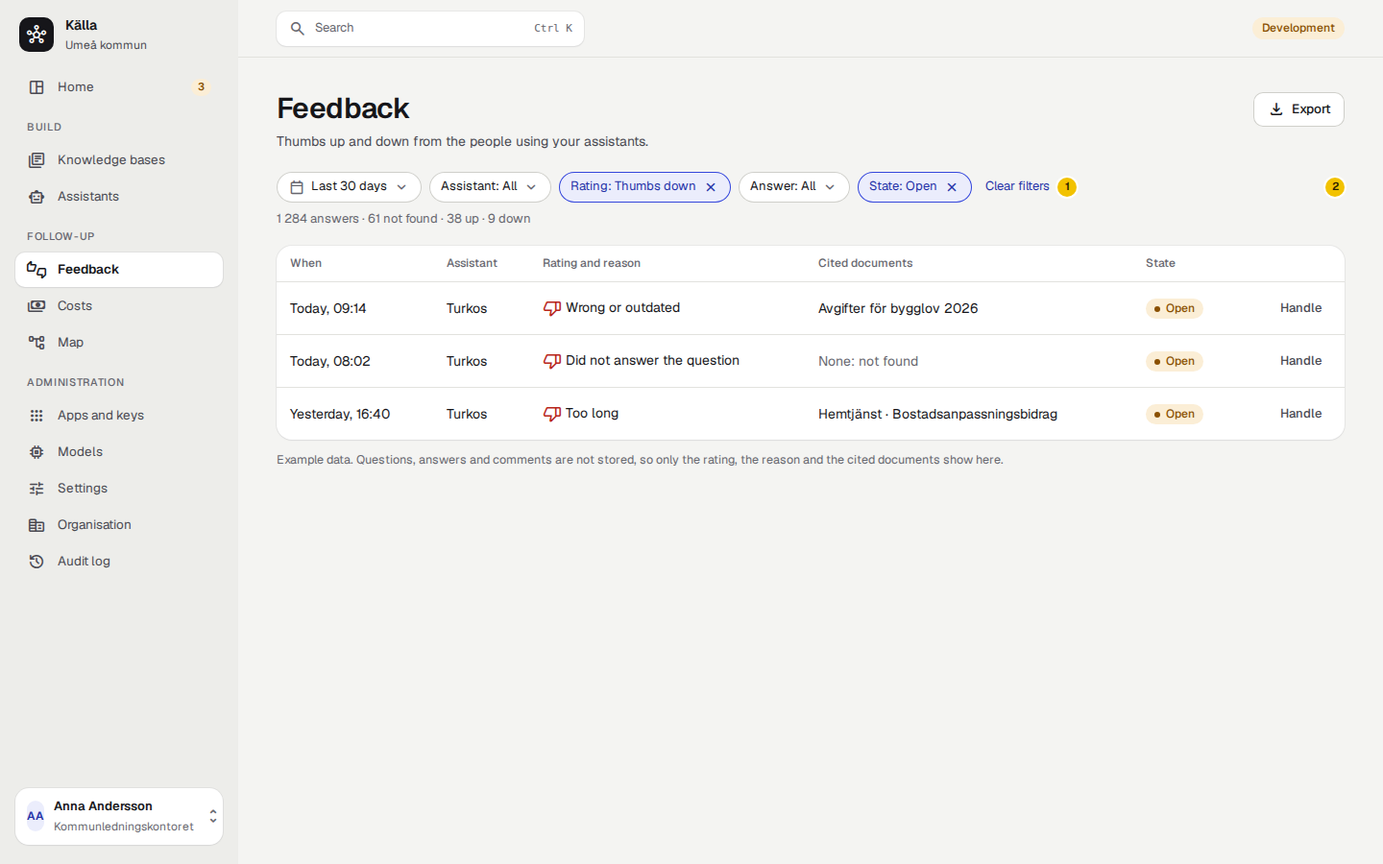
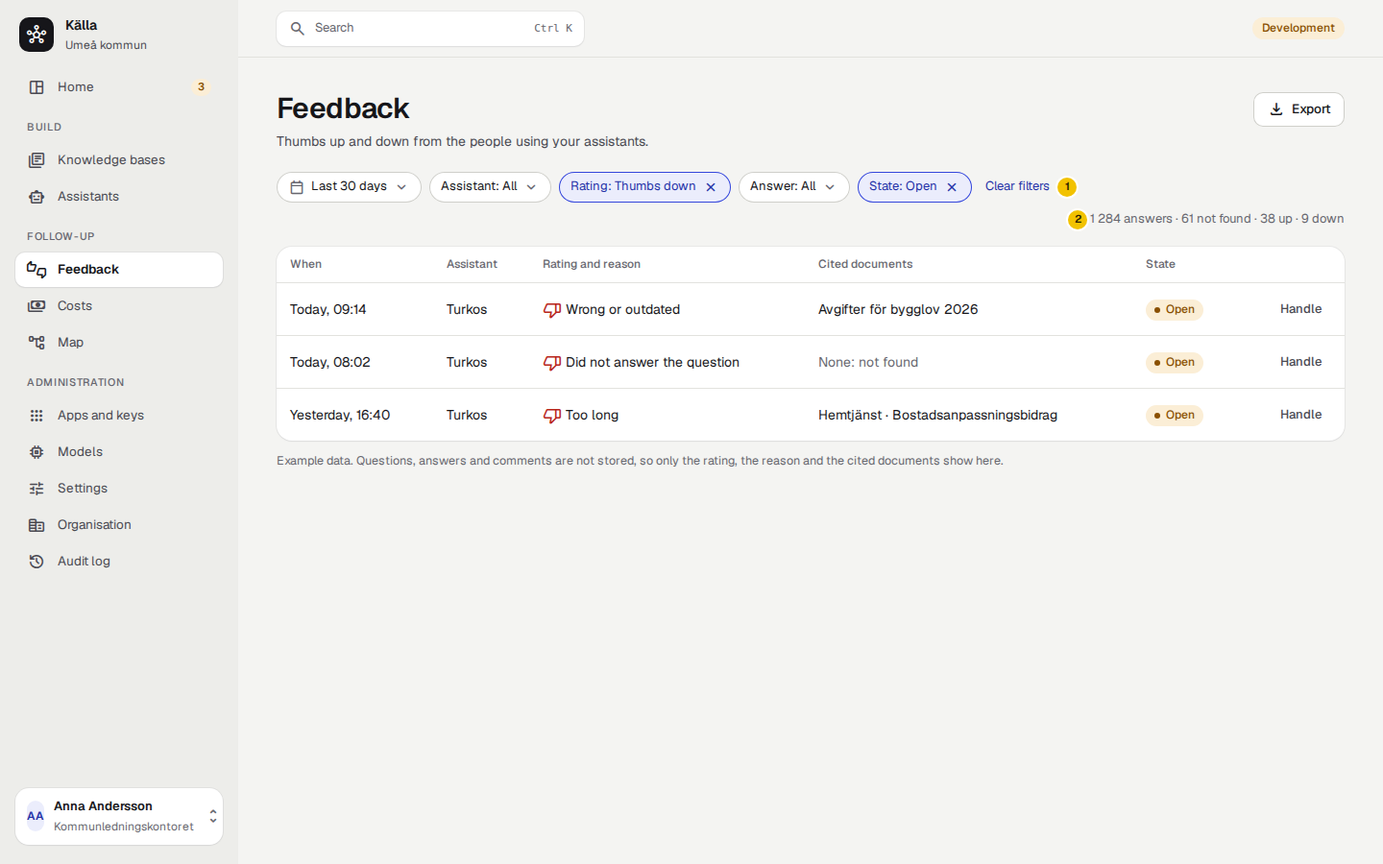
Admin UI UX pass: the phone layout and WCAG 2.2 AA for every proposed component, with phone mockups

diff --git a/plans/proposals/admin-ui-ux-pass/mockups/mock.css b/plans/proposals/admin-ui-ux-pass/mockups/mock.css
@@ -104,3 +104,60 @@ tr:last-child td { border-bottom: 0; } td.num, th.num { text-align: right; font-
 .pin { position: absolute; width: 22px; height: 22px; border-radius: 99px; background: #F2C200; color: #2A2100; font-weight: 700; font-size: 12px; display: grid; place-items: center; z-index: 9; box-shadow: 0 0 0 3px #fff; }
 .pin-i { display: inline-grid; place-items: center; width: 20px; height: 20px; border-radius: 99px; background: #F2C200; color: #2A2100; font-weight: 700; font-size: 11.5px; box-shadow: 0 0 0 2px #fff; vertical-align: middle; flex: none; font-style: normal; }
 .bar.static { position: static; }
+
+/* Focus: every control shows the design system's focus ring (2 px --focus, 2 px offset). */
+:focus-visible { outline: 2px solid #3446DB; outline-offset: 2px; }
+.mtop, .bottom, .sheet, .scrim, .only-phone { display: none; }
+
+/* Phone (≤ 760 px): one column, the bottom menu, tabs in one scrolling row, rows as cards, sheets instead of menus. */
+@media (max-width: 760px) {
+  body { font-size: 15px; }
+  .app { display: block; min-height: 0; }
+  .side, .top, .only-desk { display: none; }
+  .only-phone { display: revert; }
+  .mtop { display: flex; align-items: center; gap: 10px; height: 56px; padding: 0 16px; border-bottom: 1px solid var(--border); position: sticky; top: 0; background: var(--canvas); z-index: 4; }
+  .mtop b { font-size: 15px; } .mtop .btn { margin-left: auto; }
+  .bottom { display: grid; grid-template-columns: repeat(5, 1fr); position: fixed; left: 0; right: 0; bottom: 0; height: 64px; background: var(--surface); box-shadow: 0 -1px 0 var(--border); z-index: 6; }
+  .bottom div { display: flex; flex-direction: column; align-items: center; justify-content: center; gap: 2px; font-size: 11px; color: var(--fg-2); min-height: 48px; }
+  .bottom div.on { color: var(--accent-ink); font-weight: 600; }
+  .page { padding: 18px 16px 150px; }
+  .head { flex-wrap: wrap; gap: 12px; margin-bottom: 16px; }
+  .head > div:first-child { width: 100%; }
+  .head h1 { font-size: 24px; }
+  .head .actions { margin-left: 0; width: 100%; }
+  .head .actions .btn.primary { flex: 1; justify-content: center; }
+  .head .actions .btn { height: 44px; } .head .actions .btn.icon { width: 44px; }
+  .menu { display: none; }
+  .tabs { overflow-x: auto; flex-wrap: nowrap; scrollbar-width: none; margin: 0 -16px 18px; padding: 0 16px; -webkit-mask-image: linear-gradient(90deg, #000 85%, transparent); }
+  .tab { white-space: nowrap; padding: 12px 10px; }
+  .split, .grid2, .grid3 { grid-template-columns: minmax(0, 1fr) !important; }
+  .head .actions { flex-wrap: wrap; } .health, .row-wrap { flex-wrap: wrap; gap: 10px 16px !important; }
+  .health > span { width: 100%; }
+  .w-num { width: 120px; } .w-md { width: 100%; }
+  .scale div { font-size: 12.5px; padding: 10px 2px; }
+  .test { display: none; }
+  table.rt, table.rt tbody, table.rt tr, table.rt td { display: block; width: 100%; }
+  table.rt tr:has(th) { display: none; }
+  table.rt tr { padding: 12px 16px; border-bottom: 1px solid var(--border); }
+  table.rt tr:last-child { border-bottom: 0; }
+  table.rt td { padding: 3px 0; border: 0; text-align: left !important; display: flex; gap: 12px; }
+  table.rt td[data-label]:not([data-label=""])::before { content: attr(data-label); color: var(--fg-3); font-size: 12.5px; min-width: 110px; }
+  table.rt td.first { font-weight: 600; }
+  table.rt td .btn { margin-top: 6px; height: 40px; }
+  .filters { flex-wrap: wrap; } .filters .chip { height: 40px; }
+  .filters .count { width: 100%; margin-left: 0 !important; }
+  .bar { position: fixed; left: 12px; right: 12px; bottom: 76px; z-index: 5; padding: 8px 8px 8px 14px; flex-wrap: wrap; }
+  .bar .state { font-size: 13px; flex: 1 1 100%; }
+  .bar .r { margin-left: 0; width: 100%; } .bar .r .btn { flex: 1; justify-content: center; height: 44px; }
+  .settings-layout { display: block !important; } .settings-nav { display: none; }
+  .card { padding: 16px; }
+}
+@media (max-width: 760px) { .btn.only-phone { display: inline-flex; } div.only-phone { display: block; } }
+@media (max-width: 760px) { .kb { flex-wrap: wrap; } .kb .chips { margin-left: 0; width: 100%; } }
+@media (max-width: 760px) {
+  .card.test { display: none; }
+  .grid3.tiles { grid-template-columns: 1fr 1fr !important; gap: 10px; }
+  table.rt td { flex-wrap: wrap; }
+}
+@media (max-width: 760px) { .bar .r { flex-wrap: wrap; } }
+@media (max-width: 360px) { .bar .r .btn.only-phone { flex-basis: 100%; } }

diff --git a/plans/proposals/admin-ui-ux-pass/mockups/knowledge-base.html b/plans/proposals/admin-ui-ux-pass/mockups/knowledge-base.html
@@ -2,6 +2,7 @@
 <html lang="en">
 <head>
 <meta charset="utf-8">
+<meta name="viewport" content="width=device-width, initial-scale=1">
 <title>Knowledge base page (proposed)</title>
 <link rel="stylesheet" href="https://fonts.googleapis.com/css2?family=Geist:wght@400;500;600&family=Material+Symbols+Rounded:opsz,wght,FILL,GRAD@20,400,0,0&display=block">
 <link rel="stylesheet" href="mock.css">
@@ -21,17 +22,17 @@
       <span class="btn secondary icon"><span class="ms">more_horiz</span></span><i class="pin-i">1</i>
     </div>
   </div>
-  <div class="tabs">
-    <div class="tab on">Overview</div>
-    <div class="tab">Content <span class="n">1 source · 13 files</span></div>
-    <div class="tab">Documents <span class="n">13</span></div>
-    <div class="tab">Topics</div>
-    <div class="tab">Quality <span class="dot"></span></div>
-    <div class="tab">Sharing</div>
-    <div class="tab"><i class="pin-i">2</i></div>
+  <div class="tabs" role="tablist" tabindex="0" aria-label="Sections">
+    <div role="tab" aria-selected="true" class="tab on">Overview</div>
+    <div role="tab" aria-selected="false" class="tab">Content <span class="n">1 source · 13 files</span></div>
+    <div role="tab" aria-selected="false" class="tab">Documents <span class="n">13</span></div>
+    <div role="tab" aria-selected="false" class="tab">Topics</div>
+    <div role="tab" aria-selected="false" class="tab">Quality <span class="dot"></span></div>
+    <div role="tab" aria-selected="false" class="tab">Sharing</div>
+    <div role="tab" aria-selected="false" class="tab"><i class="pin-i">2</i></div>
   </div>
 
-  <div class="grid3" style="grid-template-columns:repeat(4,1fr);margin-bottom:16px">
+  <div class="grid3 tiles" style="grid-template-columns:repeat(4,1fr);margin-bottom:16px">
     <div class="card"><div class="muted small">Documents</div><div style="font-size:26px;font-weight:600;margin-top:4px">13</div><div class="muted small">all searchable</div></div>
     <div class="card"><div class="muted small">Last fetch</div><div style="font-size:17px;font-weight:600;margin:9px 0 3px">Today, 01:18</div><span class="badge ok">Done</span></div>
     <div class="card" style="box-shadow:inset 0 0 0 1px var(--warn), var(--shadow-1)"><div class="muted small">Quality (recall@10)</div><div style="font-size:17px;font-weight:600;margin:9px 0 3px">Not measured</div><a class="small">Create test questions →</a></div>

diff --git a/plans/proposals/admin-ui-ux-pass/mockups/settings.html b/plans/proposals/admin-ui-ux-pass/mockups/settings.html
@@ -2,6 +2,7 @@
 <html lang="en">
 <head>
 <meta charset="utf-8">
+<meta name="viewport" content="width=device-width, initial-scale=1">
 <title>Settings form (proposed)</title>
 <link rel="stylesheet" href="https://fonts.googleapis.com/css2?family=Geist:wght@400;500;600&family=Material+Symbols+Rounded:opsz,wght,FILL,GRAD@20,400,0,0&display=block">
 <link rel="stylesheet" href="mock.css">
@@ -11,8 +12,8 @@
 <main class="main">
 <div class="page">
   <div class="head"><div><h1>Settings</h1><div class="sub">How the platform answers, fetches and keeps content.</div></div></div>
-  <div style="display:grid;grid-template-columns:220px minmax(0,1fr);gap:40px">
-    <div class="small">
+  <div class="settings-layout" style="display:grid;grid-template-columns:220px minmax(0,1fr);gap:40px">
+    <div class="small settings-nav">
       <div class="grp" style="padding-left:12px">Answers</div>
       <div class="nav on">Chat</div><div class="nav">Prompt texts</div><div class="nav">Search</div><div class="nav">Assistant templates</div>
       <div class="grp" style="padding-left:12px">Content</div>
@@ -23,6 +24,7 @@
       <div class="nav">Network</div><div class="nav">Role groups</div>
     </div>
     <div class="w-form" style="max-width:680px">
+      <div class="only-phone" style="margin-bottom:16px"><div class="input"><span class="muted">Section</span><b style="font-weight:500">Answers › Chat</b><span class="ms caret">expand_more</span></div></div>
       <h2 style="font-size:20px;margin:0 0 4px;font-weight:600">Chat</h2>
       <div class="fg2" style="margin-bottom:22px">Limits and models every assistant shares.</div>
 
@@ -36,7 +38,7 @@
       <div class="card" style="margin-top:16px">
         <div class="section-title" style="margin-top:0">Limits <i class="pin-i">2</i></div>
         <div class="section-lead">Empty: the value shown in grey applies.</div>
-        <div style="display:flex;gap:24px">
+        <div class="row-wrap" style="display:flex;gap:24px">
           <div class="field"><label>Longest answer</label><div style="display:flex;align-items:center;gap:8px"><div class="input w-num ph">Model’s limit</div><span class="muted">tokens</span></div></div>
           <div class="field"><label>Messages per person</label><div style="display:flex;align-items:center;gap:8px"><div class="input w-num ph">20</div><span class="muted">per minute</span></div></div>
         </div>

diff --git a/plans/proposals/admin-ui-ux-pass/mockups/shell.js b/plans/proposals/admin-ui-ux-pass/mockups/shell.js
@@ -28,7 +28,19 @@
       <div class="search"><span class="ms">search</span>Search<kbd>Ctrl K</kbd></div>
       <span class="env">Development</span>
     </div>`
+  // Phone: a top bar with the search, and the bottom menu of admin design §5.2 (Home, Knowledge bases, Assistants,
+  // Feedback, Menu); each target is at least 48 px high.
+  const tab = (id, icon, label) => `<div class="${id === active ? 'on' : ''}"><span class="ms">${icon}</span>${label}</div>`
+  const mtop = `<div class="mtop"><span class="ms">hub</span><b>Källa</b><span class="btn ghost icon" aria-label="Search"><span class="ms">search</span></span></div>`
+  const bottom = `<nav class="bottom" aria-label="Main">${tab('home', 'space_dashboard', 'Home')}${tab('collections', 'library_books', 'Knowledge')}${tab('assistants', 'smart_toy', 'Assistants')}${tab('feedback', 'thumbs_up_down', 'Feedback')}${tab('menu', 'menu', 'Menu')}</nav>`
+  // Tables become cards on a phone: each cell gets its column's name as a label.
+  for (const t of document.querySelectorAll('table')) {
+    t.classList.add('rt')
+    const heads = [...t.querySelectorAll('tr:first-child th')].map((th) => th.textContent.trim())
+    for (const tr of t.querySelectorAll('tr')) [...tr.children].forEach((td, i) => { if (td.tagName === 'TD') { td.dataset.label = heads[i] ?? ''; if (i === 0) td.classList.add('first') } })
+  }
   const app = document.querySelector('.app')
   app.insertAdjacentHTML('afterbegin', side)
-  document.querySelector('.main').insertAdjacentHTML('afterbegin', top)
+  document.querySelector('.main').insertAdjacentHTML('afterbegin', mtop + top)
+  document.body.insertAdjacentHTML('beforeend', bottom)
 })()

diff --git a/plans/proposals/admin-ui-ux-pass/mockups/feedback.html b/plans/proposals/admin-ui-ux-pass/mockups/feedback.html
@@ -2,6 +2,7 @@
 <html lang="en">
 <head>
 <meta charset="utf-8">
+<meta name="viewport" content="width=device-width, initial-scale=1">
 <title>Feedback (proposed)</title>
 <link rel="stylesheet" href="https://fonts.googleapis.com/css2?family=Geist:wght@400;500;600&family=Material+Symbols+Rounded:opsz,wght,FILL,GRAD@20,400,0,0&display=block">
 <link rel="stylesheet" href="mock.css">
@@ -15,7 +16,7 @@
     <div class="actions"><span class="btn secondary"><span class="ms">download</span>Export</span></div>
   </div>
 
-  <div style="display:flex;gap:8px;align-items:center;flex-wrap:wrap;margin-bottom:18px">
+  <div class="filters" style="display:flex;gap:8px;align-items:center;flex-wrap:wrap;margin-bottom:18px">
     <span class="chip"><span class="ms">calendar_today</span>Last 30 days<span class="ms">expand_more</span></span>
     <span class="chip">Assistant: All<span class="ms">expand_more</span></span>
     <span class="chip set">Rating: Thumbs down<span class="ms" style="color:var(--accent-ink)">close</span></span>
@@ -23,7 +24,7 @@
     <span class="chip set">State: Open<span class="ms" style="color:var(--accent-ink)">close</span></span>
     <a style="margin-left:6px;font-size:13px">Clear filters</a>
     <i class="pin-i">1</i>
-    <span style="margin-left:auto"></span><i class="pin-i">2</i><span class="muted" style="font-size:13px">1 284 answers · 61 not found · 38 up · 9 down</span>
+    <span class="count muted" style="margin-left:auto;font-size:13px"><i class="pin-i">2</i> 1 284 answers · 61 not found · 38 up · 9 down</span>
   </div>
 
   <div class="tcard">

diff --git a/plans/proposals/admin-ui-ux-pass/mockups/home.html b/plans/proposals/admin-ui-ux-pass/mockups/home.html
@@ -2,6 +2,7 @@
 <html lang="en">
 <head>
 <meta charset="utf-8">
+<meta name="viewport" content="width=device-width, initial-scale=1">
 <title>Home (proposed)</title>
 <link rel="stylesheet" href="https://fonts.googleapis.com/css2?family=Geist:wght@400;500;600&family=Material+Symbols+Rounded:opsz,wght,FILL,GRAD@20,400,0,0&display=block">
 <link rel="stylesheet" href="mock.css">
@@ -35,7 +36,7 @@
     </table>
   </div>
 
-  <div class="card" style="display:flex;align-items:center;gap:28px;padding:14px 20px">
+  <div class="card health" style="display:flex;align-items:center;gap:28px;padding:14px 20px">
     <b style="font-weight:600">Health</b><i class="pin-i">3</i>
     <span><span class="badge ok">Runs</span> 12 in 24 h, none failed</span>
     <span><span class="badge ok">Queue</span> 0 waiting</span>

diff --git a/plans/proposals/admin-ui-ux-pass.md b/plans/proposals/admin-ui-ux-pass.md
@@ -22,7 +22,7 @@ proposal changes them. What makes pages feel busy is **how much asks for attenti
 - the assistant's test is a separate tab from the draft it tests, so you switch tabs after every edit;
 - each form saves with a differently named button at its bottom, and nothing says that there are unsaved changes.
 
-The proposal is nine rules (below) and six decisions (UX1–UX6), each with a recommendation. Together they take most
+The proposal is eleven rules (below) and six decisions (UX1–UX6), each with a recommendation. Together they take most
 of the buttons and form fields off the first screen of the busiest pages, without removing a single function.
 
 ## How the review was done
@@ -30,8 +30,9 @@ of the buttons and form fields off the first screen of the busiest pages, withou
 46 screens at 1,440 px as a platform administrator: every page in the menu, every tab of a knowledge base and an
 assistant, every Settings section, a source page, and the create and edit drawers. The stack was the FakeGateway stack
 with the demo seed (one knowledge base with 13 files, one published assistant, four departments); the parser,
-renderer and Open WebUI were off. Phone width and the dark and Lumen themes were reviewed in M-19 and are not repeated
-here; every proposal below must keep the phone layout (rows as cards, the bottom menu) and all three themes.
+renderer and Open WebUI were off. The same pages again at 390 px on a phone viewport (touch, `isMobile`), and the
+mockups at 1,440, 390 and 320 px with axe-core (WCAG 2.2 A and AA rules). The dark and Lumen themes were reviewed in
+M-19; every proposal uses only tokens, so all three themes follow.
 
 The mockups under [`admin-ui-ux-pass/mockups/`](admin-ui-ux-pass/mockups/) are plain HTML that use the admin UI's own
 tokens (`tokens.css`, light theme), so they show layout and grouping, not a new look. Yellow numbered dots in them
@@ -46,7 +47,7 @@ point to the numbered items in the text. Their data is invented where the seed h
   within the glossary.
 - **The drawers** for create and edit, the command palette (Ctrl K), the empty states, `?tab=` in the address.
 
-## Nine rules
+## Eleven rules
 
 These are the rules each change below follows; once adopted they go into admin design §5 as the layout rules every
 new page is reviewed against.
@@ -71,6 +72,11 @@ new page is reviewed against.
    Green is for a state someone waits for (*Published*, *Done*); amber and red for something to do.
 9. **One rhythm.** Lists use the full content width; forms one column of at most 680 px, with help or a preview in a
    second column when there is room; detail pages start with a row of up to four summary tiles.
+10. **As good on a phone.** Below 760 px every page is one column with no sideways scrolling down to 320 px; the
+    primary action spans the width beside the ⋯; tabs stay one row that scrolls; rows become cards; menus become
+    bottom sheets; touch targets are at least 44 × 44 px (*Phone* below).
+11. **Accessible by construction.** WCAG 2.2 level AA (EN 301 549) for every component and page, checked by the
+    accessibility spec in the three themes and at phone width (*Accessibility* below).
 
 ## Before and after
 
@@ -139,6 +145,81 @@ new page is reviewed against.
    placeholder (M-19 already does this in places).
 3. A list of hosts is a chip input, not a text area with one value per line.
 4. The save bar; ✱ *Cancel* becomes *Discard*, which says what it does.
+
+## Phone
+
+**What happens on a phone today** (390 px):
+
+| Assistant now | Knowledge base now |
+|---|---|
+| ![The assistant page on a phone now](admin-ui-ux-pass/img/before-mobile-assistant.png) | ![The knowledge base on a phone now](admin-ui-ux-pass/img/before-mobile-knowledge-base.png) |
+
+- **The header fills the first screen.** The assistant's five buttons wrap to three rows, the knowledge base's to two,
+  before any content.
+- **Tabs wrap to two or three lines** (eight on the knowledge base), so the active one is hard to find.
+- **The bottom menu has two pages and *Menu*** (`router/nav.ts`, `mobileTabs`: Home, Knowledge bases), where admin
+  design §5.2 sets Home, Knowledge bases, Assistants, Feedback, Menu. The assistant pages need two taps through *Menu*.
+- **The assistant's draft and test are far apart:** the four *General knowledge* cards alone are 500 px tall, and the
+  test is on another tab.
+- There is no sideways scrolling on any page (checked on five pages): M-19's base holds.
+
+**Proposed** (the same mockups at 390 px):
+
+| Assistant | Knowledge base | Home | Feedback | Settings |
+|---|---|---|---|---|
+| ![Assistant on a phone, proposed](admin-ui-ux-pass/img/mobile-assistant.png) | ![Knowledge base on a phone, proposed](admin-ui-ux-pass/img/mobile-knowledge-base.png) | ![Home on a phone, proposed](admin-ui-ux-pass/img/mobile-home.png) | ![Feedback on a phone, proposed](admin-ui-ux-pass/img/mobile-feedback.png) | ![Settings on a phone, proposed](admin-ui-ux-pass/img/mobile-settings.png) |
+
+- **Header:** title and badges, then one row: the primary action across the width and the ⋯ button (44 px). The ⋯
+  opens a bottom sheet with the same items as the desktop menu. Secondary actions such as *Compare with published*
+  move into the sheet.
+- **Bottom menu:** Home, Knowledge bases, Assistants, Feedback, Menu, as §5.2 says (a bug fix, not a design change).
+  *Menu* opens the rest of the side menu as a sheet.
+- **Tabs:** one row that scrolls sideways, the active tab scrolled into view and a fade at the edge to show there is
+  more; never wrapped.
+- **Tiles** two by two; **rows as cards** with the column name as each value's label (M-19's pattern, now on every
+  table including Home's and the Overview's).
+- **Assistant:** the test panel is not beside the form but one tap away: *Try the draft* in the save bar opens it as a
+  full-height sheet, with the draft still saved in memory. The general-knowledge scale keeps all four steps on one row.
+- **Filters:** chips wrap to as many rows as needed (no sideways scrolling of the filter row); the counts drop to a
+  line of their own.
+- **Settings:** the section menu becomes a *Section* picker at the top of the page.
+- **Save bar:** fixed above the bottom menu, its buttons 44 px high and sharing the width; the page gets padding
+  under its last field equal to the bar's height, so nothing is ever hidden behind it.
+- **Tested at 320 px** (WCAG reflow): all five mockups fit without sideways scrolling.
+
+## Accessibility
+
+The target is **WCAG 2.2 level AA**, the level of EN 301 549, which the Swedish DOS law (2018:1937) points to for the
+public sector's digital services. Today's admin UI is a good base: the tokens'
+colour pairs meet AA (`tokens.css` says so and the accessibility spec checks it), focus moves to the page heading on
+navigation, Swedish content is marked `lang="sv"`, and the drop zone has buttons as well as drag and drop (2.5.7).
+
+The mockups pass axe-core's WCAG 2.2 A and AA rules at 1,440, 390 and 320 px with no violations (the yellow note dots
+excluded). Axe catches about a third of the criteria, so each new component also follows the WAI-ARIA Authoring
+Practices pattern named below, and each step is tried with the keyboard and a screen reader (NVDA or VoiceOver)
+before it is merged.
+
+| Component or change | Pattern and criteria | What it must do |
+|---|---|---|
+| ⋯ menu (`MenuButton`) | APG *Menu button*; 2.1.1, 4.1.2 | A real `button` with `aria-haspopup="menu"`, `aria-expanded` and the name "More actions for *Demo-assistent*"; arrow keys move, Enter acts, Esc closes and returns focus to the button. On a phone the sheet is a modal dialog with a focus trap and a *Close* button. *Delete…* keeps its confirmation dialog. |
+| Tabs (one scrolling row) | APG *Tabs*; 1.4.10, 2.4.7 | `role="tablist"` with `tab`s, arrow keys between tabs, the selected tab scrolled into view on focus. The dot on a tab has text for assistive technology ("Quality, needs attention") and is never the only sign (1.4.1). |
+| Filter chips and period picker | APG *Listbox* in a popover, *Radio group* for presets; 1.3.1, 3.3.2, 4.1.3 | Each chip is a button whose name says the filter and its value ("Rating: Thumbs down"); the × has its own name ("Remove the rating filter"). A custom range has two labelled date fields with the format shown. The result count is in a polite live region, so a screen-reader user hears "61 answers" after a change. |
+| Filters in the address | 2.4.2, 3.2.2 | Changing a filter never moves focus or reloads the page; the page title can carry the filtered state. |
+| Save bar (`SaveBar`) | 2.4.11, 4.1.3, 3.3.4 | A labelled region ("Unsaved changes") that appears with a polite announcement; `scroll-padding-bottom` equal to its height so a focused field is never hidden behind it (2.4.11 *Focus not obscured*). Leaving with unsaved changes asks in a dialog; *Discard* asks once. |
+| General-knowledge scale | APG *Radio group*; 1.3.1, 3.3.2 | Four real radio buttons in a `radiogroup` named "General knowledge", the chosen level's description tied with `aria-describedby`; not a set of toggle buttons. |
+| Test panel (chat) | 4.1.3, 1.3.2 | The answers in a `role="log"` with polite announcements; the question field labelled; reading order form → test panel on desktop, and the sheet a modal dialog on a phone. |
+| Summary tiles | 1.3.1, 1.4.1 | Each tile a small heading and value (or a `dl`); the tile that needs action says so in text ("Not measured") besides its coloured border. |
+| Rows as cards | 1.3.1 | The table keeps its semantics (`role="table"`, `row`, `cell`, `columnheader`) when CSS turns rows into cards, because some browsers drop them with `display: block`; or the phone renders a list of cards with the same labels. |
+| Selected radio card | 1.4.11 | The 2 px accent border is the selected state, contrast ≥ 3:1 against the card and the canvas (accent `#3446DB` is 6.9:1 on white and 6.3:1 on the canvas). |
+| Touch targets | 2.5.8 | At least 24 × 24 px everywhere (AA); 44 × 44 px on a phone as our own rule; small ghost buttons in rows (*Handle*) get padding to reach it. |
+| Reflow, zoom, text spacing | 1.4.4, 1.4.10, 1.4.12 | No sideways scrolling at 320 px or at 400 % zoom on desktop; text spacing overrides do not clip labels (chips and tabs size to their text). |
+| Focus | 2.4.3, 2.4.7, 2.4.13 (AAA, aimed for) | The design system's 2 px focus ring on every control, including chips, tiles that link and the bottom menu; focus order follows the visual order. |
+| Motion | 2.3.3 (AAA, aimed for) | Sheets and the save bar slide only when `prefers-reduced-motion` is not set. |
+| Language and names | 3.1.2, 2.5.3 | Swedish names keep `lang="sv"`; a button's visible text starts its accessible name ("Publish draft"). |
+
+**How it is checked:** the accessibility spec in `tests/e2e` (axe over every page, three themes) gains a phone project
+at 390 px and a 320 px reflow check, and covers the new components' open states (menu, sheet, period picker, save
+bar). A keyboard-only pass and a screen-reader pass of each changed page are part of each step's pull request.
 
 ## Decisions for the user
 
@@ -317,14 +398,13 @@ groups* "No member groups" as a grey dash; *Fetched* drops the date when it is t
 ## What this is not
 
 - **Not a new look.** No token, font, radius, colour or icon set changes.
-- **Not the phone layout.** It keeps M-19's: each proposal folds to one column, the ⋯ menu becomes a bottom sheet,
-  the save bar stays at the bottom.
+- **Not a separate phone design.** The phone gets the same pages, folded by rule 10 (*Phone* above).
 - **Not new functions.** Every function on today's pages is still there, at most one click further away when it is
   rare.
 
 ## Where it lands
 
-- **Design:** Decisions "Admin API and UI" (the nine rules, one line each); admin design §5.2 (menu), §5.3, §5.5.1
+- **Design:** Decisions "Admin API and UI" (the eleven rules, one line each); admin design §5.2 (menu), §5.3, §5.5.1
   (Home), §5.5.2 and §5.5.7 point 2 (knowledge base tabs), §5.5.4 (assistant), §5.7 (the renames), §5.10 (Settings
   groups).
 - **Code:** `src/admin-ui/src/**` (stream b's paths); four new Källa components in `components/ui/` (`MenuButton`,
@@ -335,6 +415,7 @@ groups* "No member groups" as a grey dash; *Fetched* drops the date when it is t
   switch in the filter row), B-68 (*Archive* and *Keep* in the ⋯ menu), #953 (the organisation logo in the menu's
   brand). None waits on this proposal; the later step adapts to what has landed.
 - **Order** (each a pull request of its own, smallest first):
+  0. The phone's bottom menu as §5.2 says (Assistants and Feedback added to `mobileTabs`): a bug fix, needs no decision.
   1. Rules 3, 5, 8 and the renames: field widths, grey zeros, repeated texts, radio-card selection (about a day).
   2. UX4: `MenuButton`, the headers and the file rows.
   3. UX6 A: `SaveBar` on every form.
@@ -342,7 +423,8 @@ groups* "No member groups" as a grey dash; *Fetched* drops the date when it is t
   5. UX2: the knowledge base page.
   6. UX5: filters and the address.
   7. UX1 and Home (UX6 C) once B-59 has landed.
-- **Checks:** each step shown in a browser at 1,440 and 390 px in the three themes; the accessibility spec
+- **Checks:** each step shown in a browser at 1,440, 390 and 320 px in the three themes, with a keyboard-only and a
+  screen-reader pass; the accessibility spec
   (`tests/e2e`) and the menu-structure test (`router/*.spec.ts`) updated with the step that changes them.
 
 ## Sources
